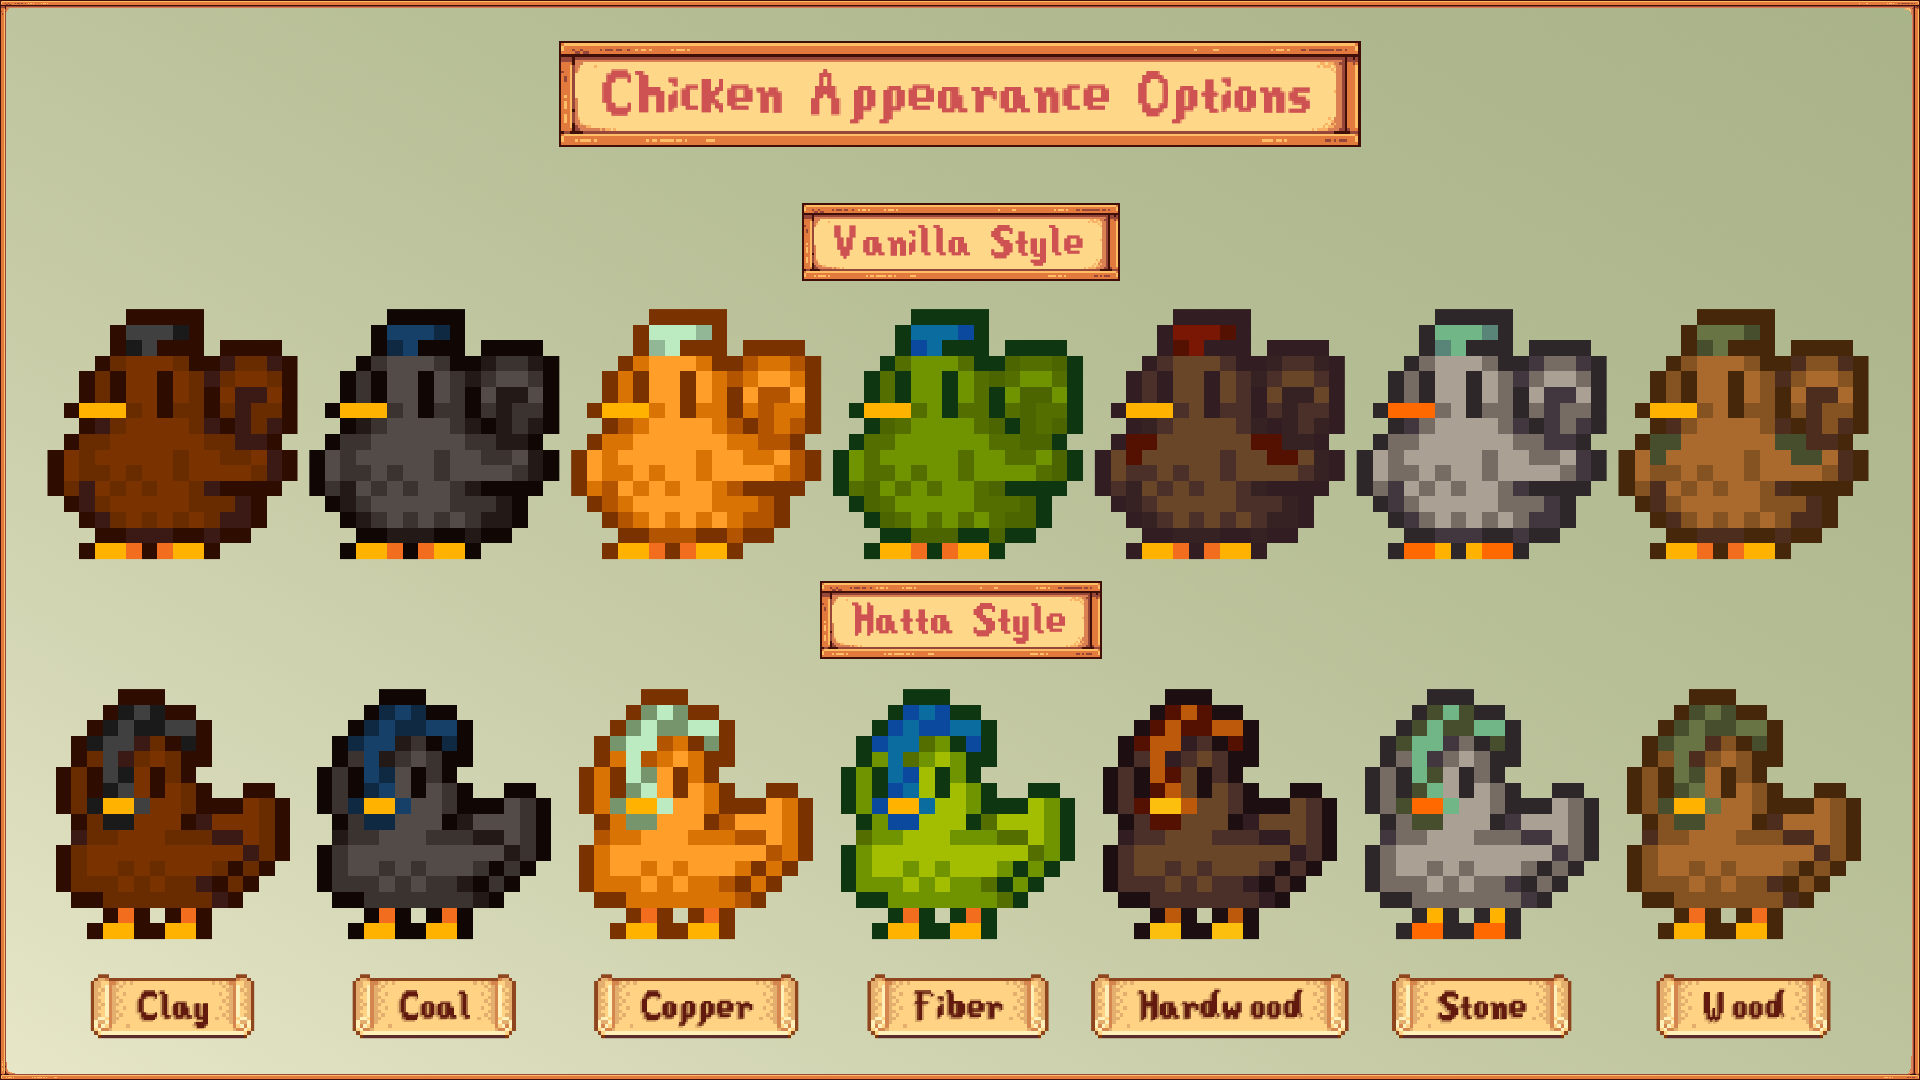
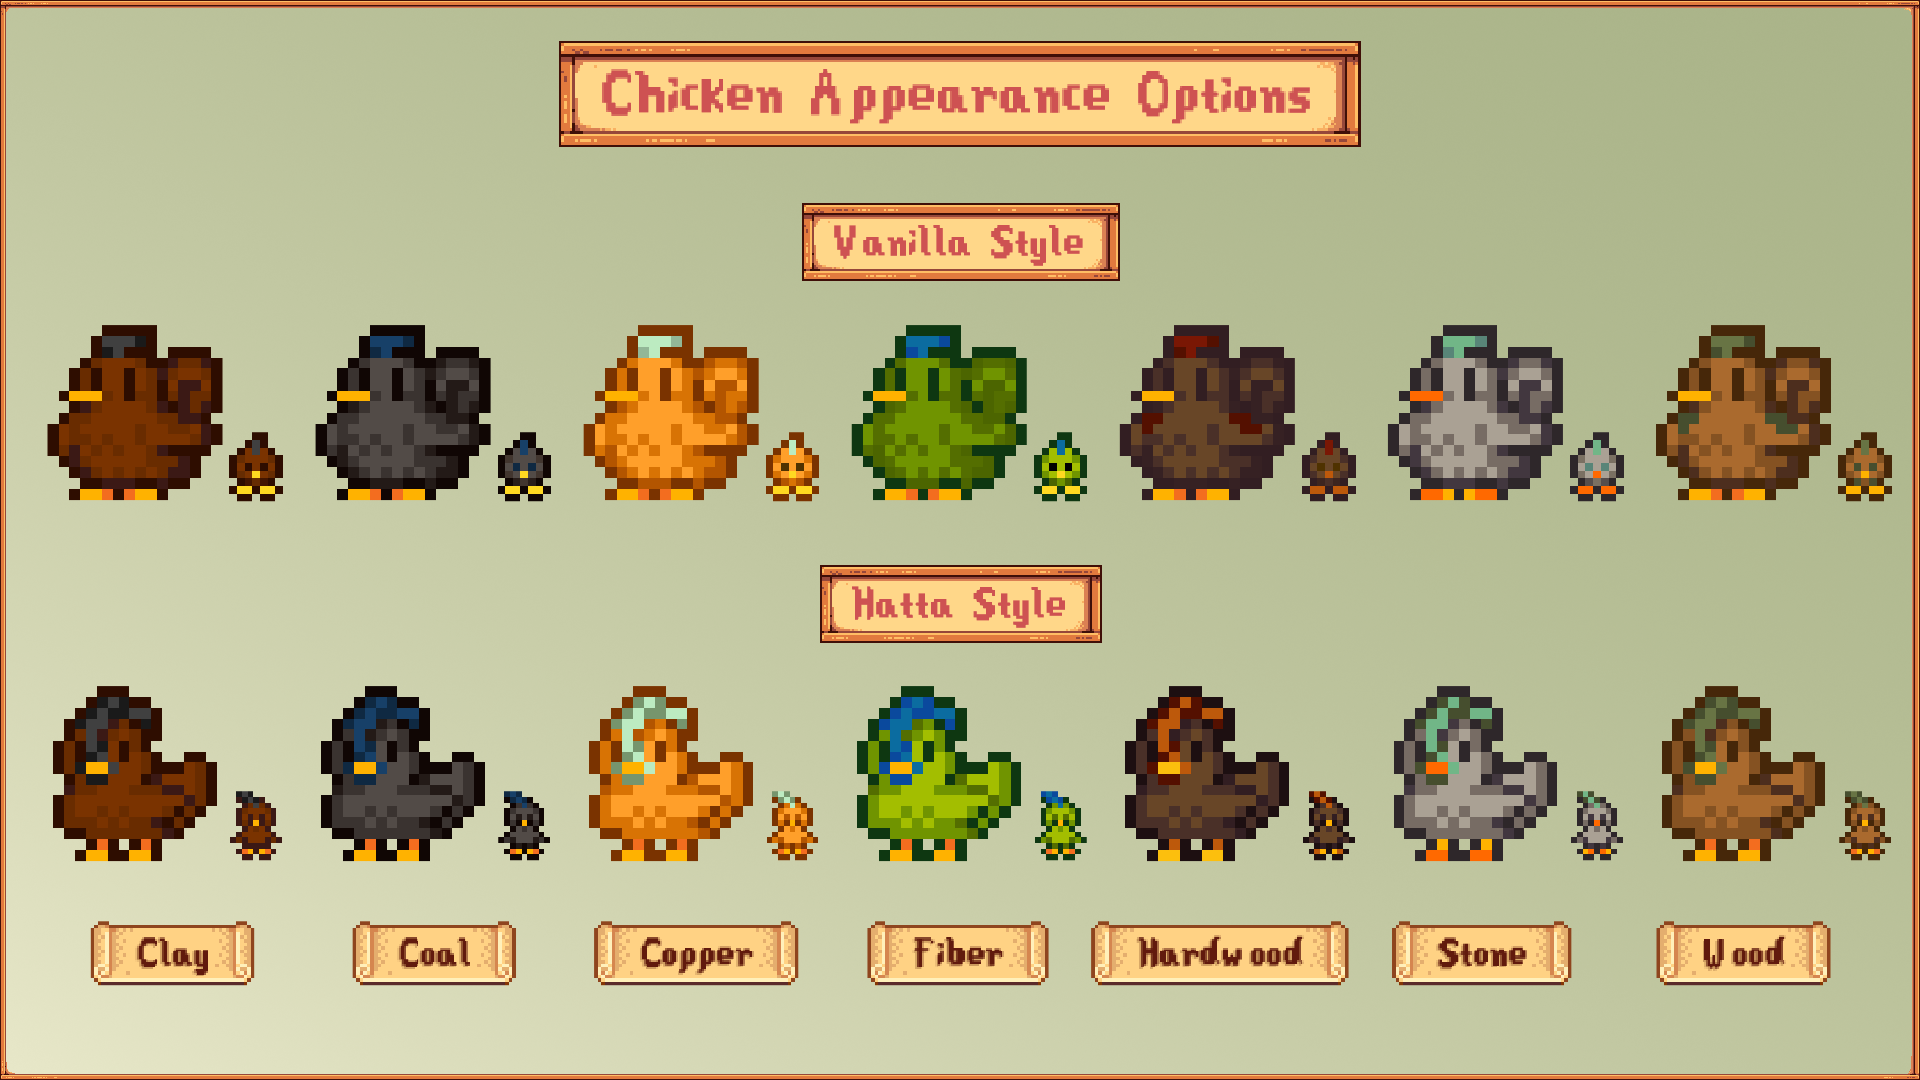
0.2.0 completion

diff --git a/CHANGELOG.md b/CHANGELOG.md
@@ -1,33 +1,39 @@
 # Changelog
 
 ## 0.2.0
-- Added Copper Chicken
-- Added Fiber Chicken
-- Added Hardwood Chicken
-- Added category for Level 1 Chickens (Clay, Coal, Stone, Wood)
-- Added category for Level 2 Chickens (Copper, Fiber, Hardwood)
-- Added unlockable crafting recipes for Copper and Hardwood Egg Fusion Chambers to hatch your first baby copper and hardwood chickens
-- Additional copper and hardwood chickens can be hatched in the vanilla incubator using the copper and hardwood eggs those chickens lay
-- Added requirement for Farm Type Manager (FTM) to allow for forage spawning
-- Added forage spawn conditions for the fiber chicken egg
-- Once obtained, a fiber chicken egg can be placed in the vanilla incubator to hatch a fiber chicken
-- Added a Progression Mode to allow for unlocking of Level 2 and above chickens
-- Level 1 Chickens can only be individually disabled if Progression Mode is also disabled as all Level 1 Chickens are required for obtaining Level 2 Chickens
-- If Progression Mode is enabled, all Level 1 Chickens will be force enabled
-- Resource Chickens now have 2 appearance options in the configs (VanillaStyle, HattaStyle)
-- Added alternative custom sprites for all resource chickens, done by [Tophatta](https://www.nexusmods.com/stardewvalley/users/54445652)!
-- Added an option to have vanilla chickens sprites also be changed to match Hatta Style resource chickens
-- Changed egg item category to allow for use in cooking recipes
-- Changed egg edibility to match usability in cooking
-- Removed redundant config options and repetitious lines in default.json to make translating easier for translators going forward
+
+-   Added Copper Chicken
+-   Added Fiber Chicken
+-   Added Hardwood Chicken
+-   Added category for Level 1 Chickens (Clay, Coal, Stone, Wood)
+-   Added category for Level 2 Chickens (Copper, Fiber, Hardwood)
+-   Added unlockable crafting recipes and corresponding items for Copper and Hardwood Egg Fusion Chambers to hatch baby copper and hardwood chickens
+-   Additional copper and hardwood chickens can be hatched in the vanilla incubator using the copper and hardwood eggs those chickens lay
+-   Added requirement for Farm Type Manager (FTM) to allow for forage spawning
+-   Added forage spawn conditions for the fiber chicken egg
+-   Once obtained, a fiber chicken egg can be placed in the vanilla incubator to hatch a fiber chicken
+-   Added a Progression Mode to allow for unlocking of Level 2 and above chickens
+-   Level 1 Chickens can only be individually disabled if Progression Mode is also disabled as all Level 1 Chickens are required for obtaining Level 2 Chickens
+-   If Progression Mode is enabled, all Level 1 Chickens will be force enabled
+-   Resource Chickens now have 2 appearance options in the configs (VanillaStyle, HattaStyle)
+-   Added alternative custom sprites for all resource chickens (and baby chickens), done by [Tophatta](https://www.nexusmods.com/stardewvalley/users/54445652)!
+-   Added an option to have vanilla chickens sprites also be changed to match Hatta Style resource chickens
+-   Slightly changed Wood Egg sprite to match some custom egg sprites created by Tophatta
+-   Changed egg item category to allow for use in cooking recipes
+-   Changed egg edibility to match usability in cooking
+-   Added second sprite for when Egg Resource Machine is processing
+-   Removed redundant config options and repetitious lines in default.json to make translating easier for translators going forward
 
 ## 0.1.2
-- Added Chinese language support. Thanks [Orville9972](https://www.nexusmods.com/users/73926958)!
+
+-   Added Chinese language support. Thanks [Orville9972](https://www.nexusmods.com/users/73926958)!
 
 ## 0.1.1
-- Quick change to disable swimming chickens by default (can be enabled in the config)
+
+-   Quick change to disable swimming chickens by default (can be enabled in the config)
 
 ## 0.1.0
-- Initial release
-- Added Resource Chickens (Clay, Coal, Stone, Wood)
-- Added Resource Egg Converter Machine
+
+-   Initial release
+-   Added Resource Chickens (Clay, Coal, Stone, Wood)
+-   Added Resource Egg Converter Machine

diff --git a/README.md b/README.md
@@ -103,14 +103,14 @@ Some spirtes are edits done by me of existing vanilla sprites originally made by
 </br>
 </br>There are currently two appearance options for Resource Chickens sprites using [GMCM](https://www.nexusmods.com/stardewvalley/mods/5098):
 </br>
+</br>**Vanilla Style:** recolourings and edits done by me of existing vanilla sprites originally made by ConcernedApe.
 
 ![vanilla-style-transparent](https://github.com/UncleArya/ResourceChickens/assets/100550741/37c86e12-92ae-482c-8e37-031cc3aaaa9d)
 
-</br>**Vanilla Style:** recolourings and edits done by me of existing vanilla sprites originally made by ConcernedApe.
+</br>**Hatta Style:** custom and unique sprites created by the wonderfully talented [Tophatta](https://www.nexusmods.com/stardewvalley/users/54445652)!
 
 ![hatta-style-transparent](https://github.com/UncleArya/ResourceChickens/assets/100550741/01f6e506-9598-46a7-8ada-11165b1ae696)
 
-</br>**Hatta Style:** custom and unique sprites created by the wonderfully talented [Tophatta](https://www.nexusmods.com/stardewvalley/users/54445652)!
 </br>You can also enable vanilla chickens to look Hatta Style
 </br>
 </br>Reference images are on the [Nexus page](https://www.nexusmods.com/stardewvalley/mods/21800) and also in the mod folder.
